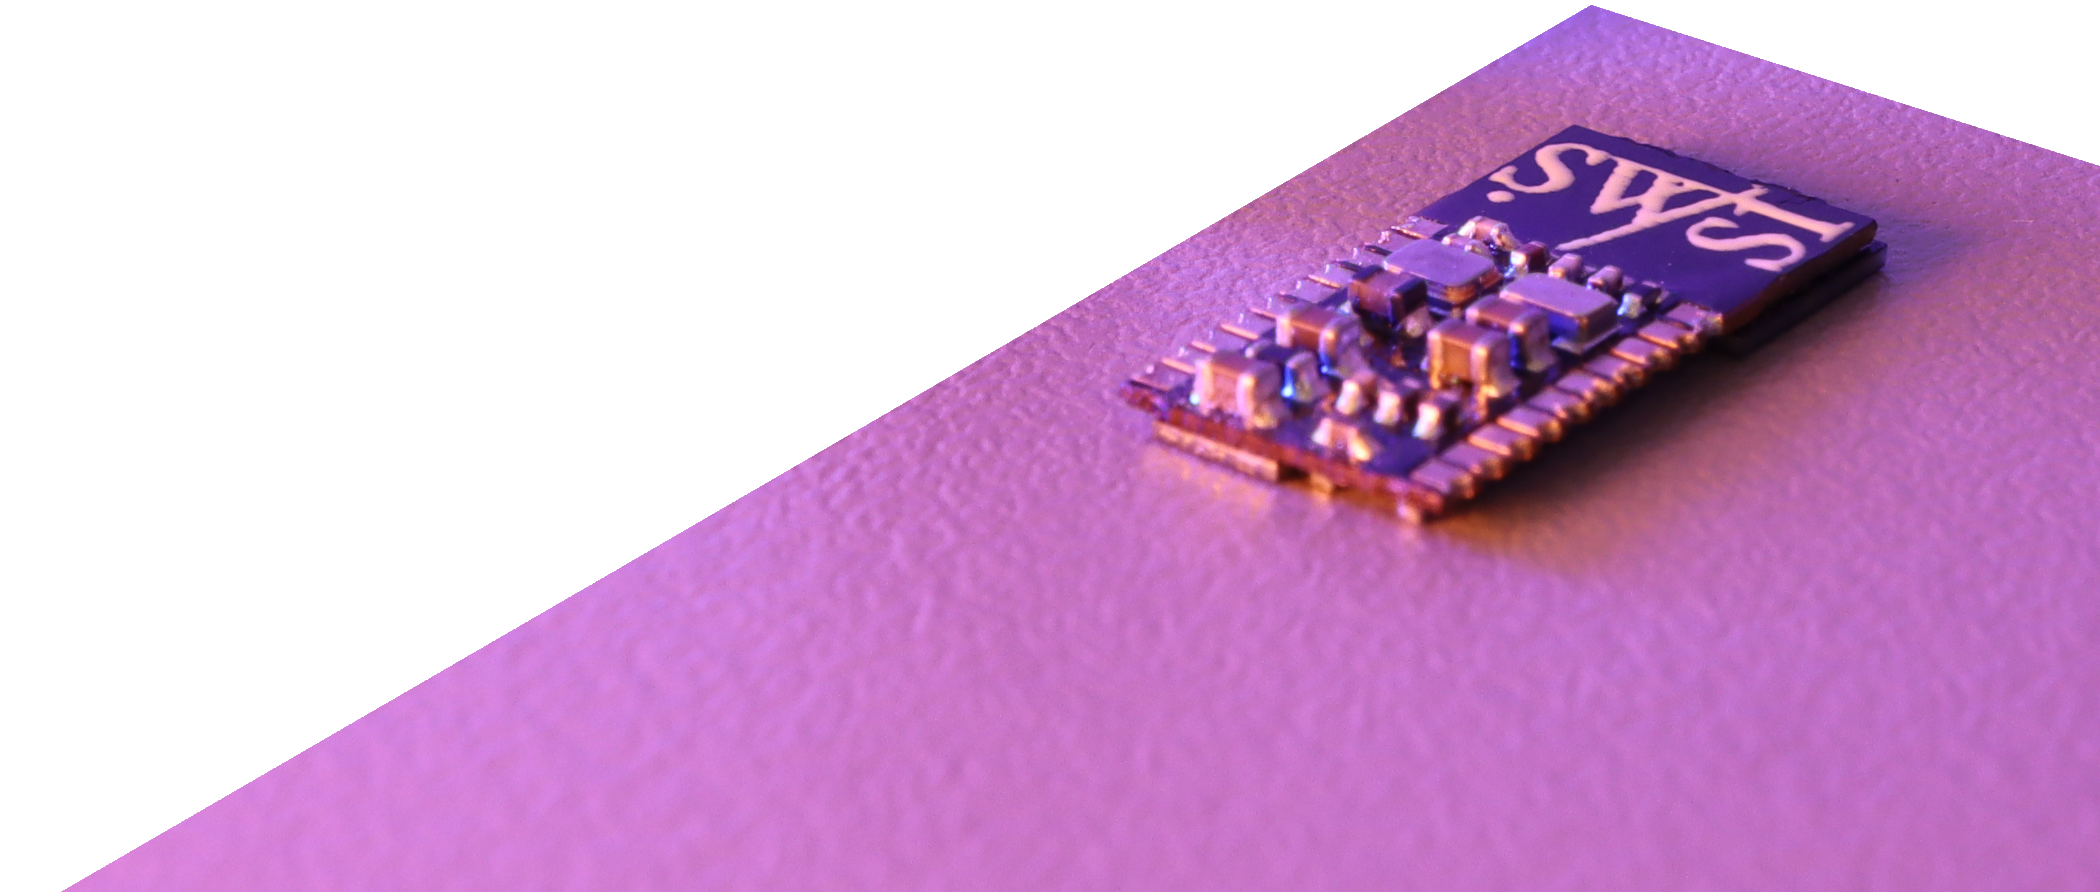
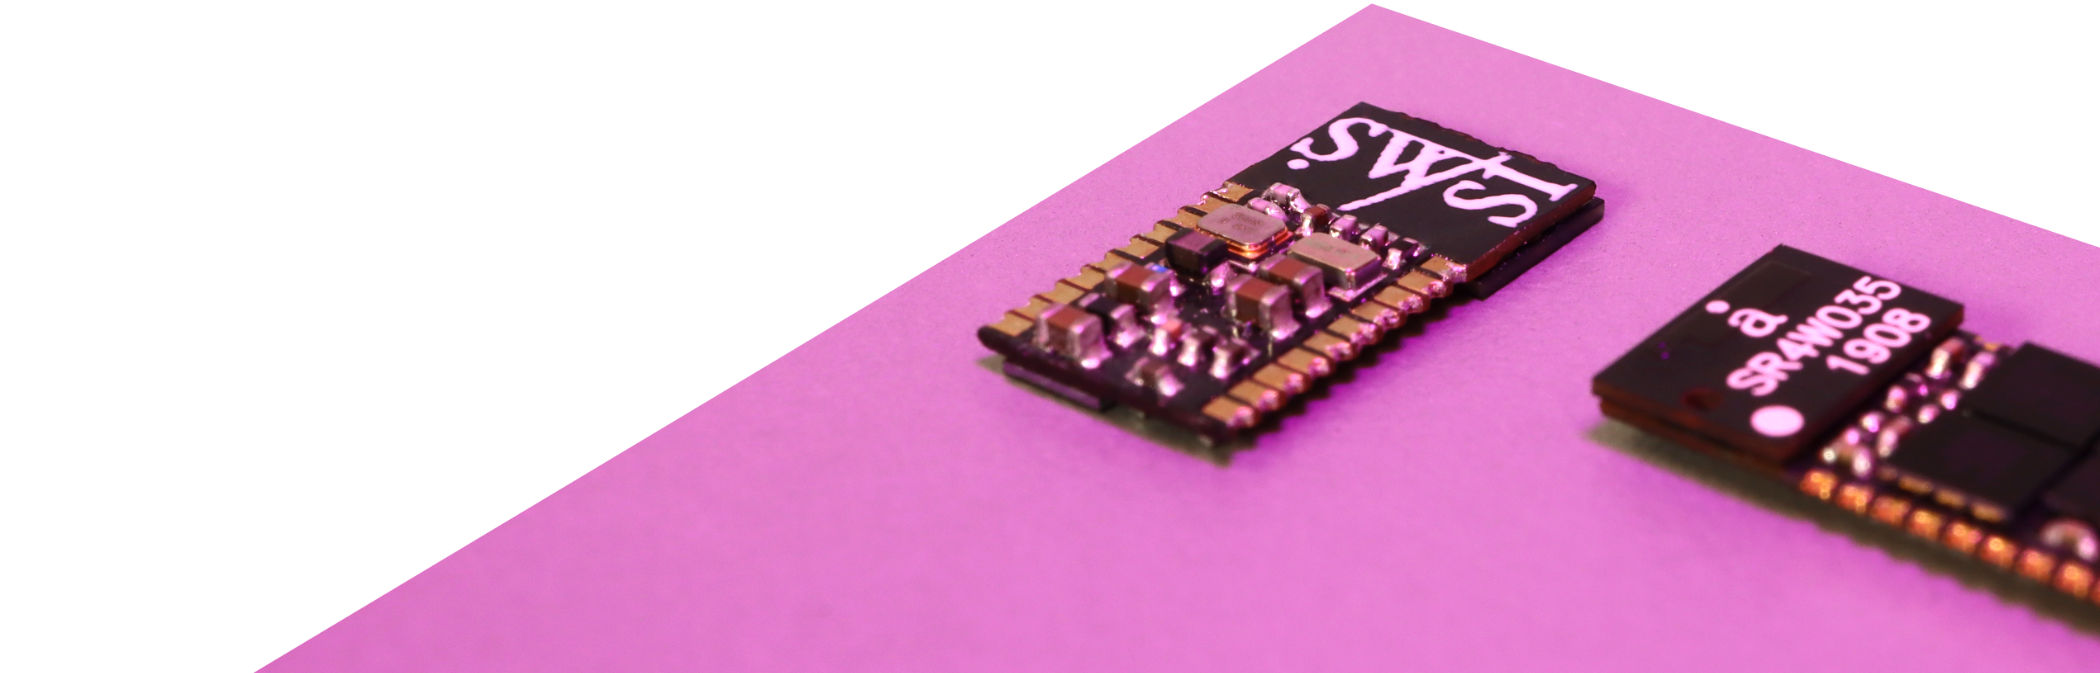
Updated white background and s1 image

diff --git a/module.html b/module.html
@@ -46,7 +46,7 @@
         height: 45rem;
         padding-right: 50%;
         background: url(images/s1-module-back.png) no-repeat;
-        background-size: 75% auto;
+        background-size: 85% auto;
         background-position: right bottom;
         background-color: var(--color-grey);
     }
@@ -56,17 +56,18 @@
         height: 55rem;
         padding-right: 50%;
         background: url(images/s1-block-diagram.png) no-repeat;
-        background-size: 45% auto;
-        background-position: right 75%;
+        background-size: 60% auto;
+        background-position: 90% 75%;
+        background-color: var(--color-white);
     }
 
     /* Software stack */
     .div3 {
         height: 55rem;
         padding-right: 50%;
-        background: url(images/s1-fw-diagram.png) no-repeat;
-        background-size: 45% auto;
-        background-position: right 75%;
+        background: url(images/s1-software-stack.png) no-repeat;
+        background-size: 60% auto;
+        background-position: 90% 75%;
         background-color: var(--color-black);
     }
 
@@ -131,21 +132,11 @@
         </div>
         <div class="menu">
             <ul>
-                <li>
-                    <p><a href="https://www.siliconwitchery.com/module">Module.</a></p>
-                </li>
-                <li>
-                    <p><a href="https://docs.siliconwitchery.com">Docs.</a></p>
-                </li>
-                <li>
-                    <p><a href="https://github.com/siliconwitchery">GitHub.</a></p>
-                </li>
-                <li>
-                    <p><a href="https://www.siliconwitchery.com/space">Space/STEM.</a></p>
-                </li>
-                <li>
-                    <p><a href="https://www.linkedin.com/company/siliconwitchery/jobs">Jobs.</a></p>
-                </li>
+                <li><a href="https://www.siliconwitchery.com/module">Module.</a></li>
+                <li><a href="https://docs.siliconwitchery.com">Docs.</a></li>
+                <li><a href="https://github.com/siliconwitchery">GitHub.</a></li>
+                <!-- <li><a href="https://www.siliconwitchery.com/space">Space/STEM.</a></li> -->
+                <li><a href="https://www.linkedin.com/company/siliconwitchery/jobs">Jobs.</a></li>
             </ul>
         </div>
     </div>

diff --git a/index.html b/index.html
@@ -56,8 +56,9 @@
         height: 45rem;
         padding-right: 50%;
         background: url(images/s1-module-back.png) no-repeat;
-        background-size: auto 65%;
+        background-size: auto 50%;
         background-position: right bottom;
+        background-color: var(--color-white);
     }
 
     /* ECG demo board */
@@ -86,6 +87,11 @@
         background: url(images/probing.png) no-repeat;
         background-size: auto 100%;
         background-position: right top;
+        background-color: var(--color-white);
+    }
+
+    .footer {
+        background-color: var(--color-white);
     }
 
     @media (max-width: 1200px) {
@@ -96,7 +102,7 @@
 
         .div2 {
             padding-right: 50%;
-            background-size: 70% auto;
+            background-size: 80% auto;
         }
 
         .div4 {
@@ -117,6 +123,7 @@
         .div2 {
             height: 50rem;
             padding-right: 4rem;
+            background-size: 110% auto;
         }
 
         .div4 {

diff --git a/style.css b/style.css
@@ -1,7 +1,8 @@
 @import url('https://fonts.googleapis.com/css2?family=Montserrat:wght@400;700&display=swap');
 
 :root {
-    --color-white: white;
+    /* --color-white: white; */
+    --color-white: #f2f7f7;
     --color-black: #0B2436;
     --color-grey: #B4BECB;
     --color-gold: #D5B795;
@@ -261,7 +262,7 @@ a:hover:after {
         display: flex;
         align-items: flex-start;
         justify-content: flex-end;
-        background: #B4BECB;
+        background: var(--color-grey);
         visibility: hidden;
     }
 
